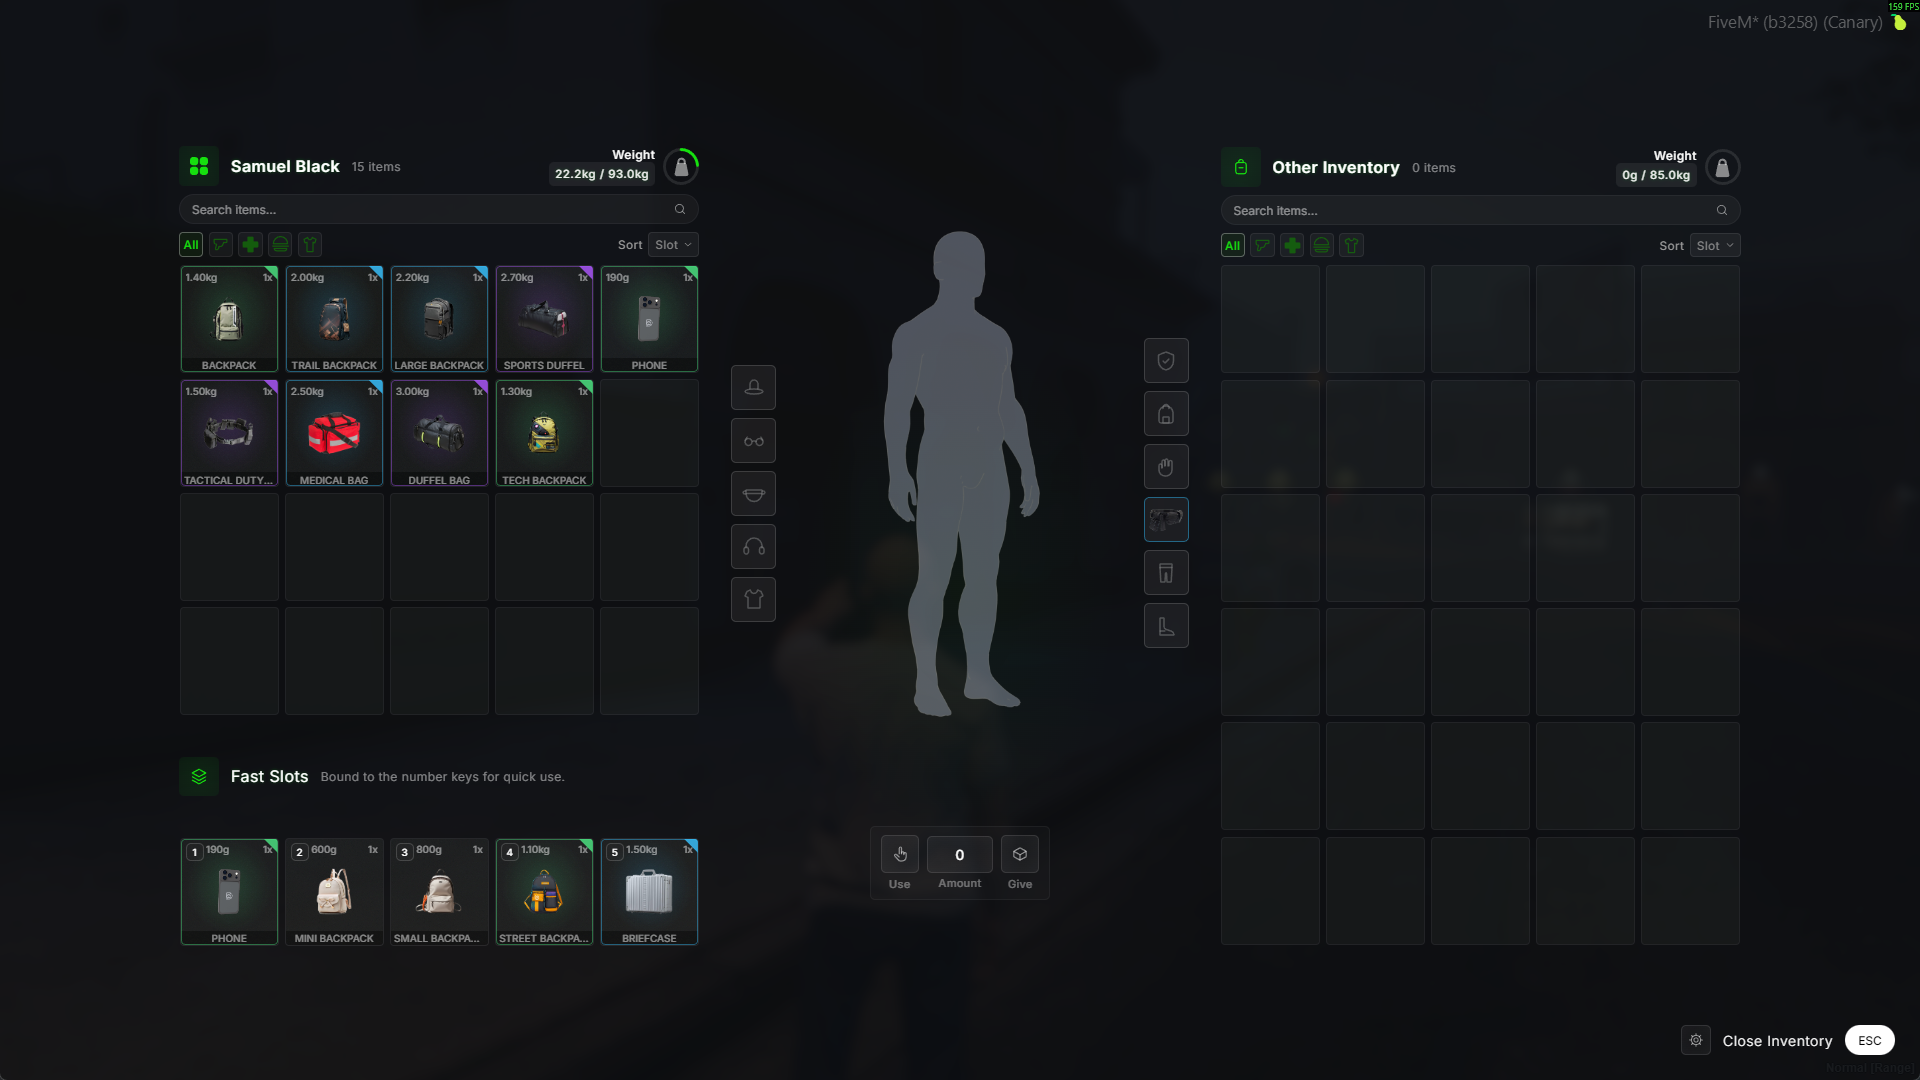
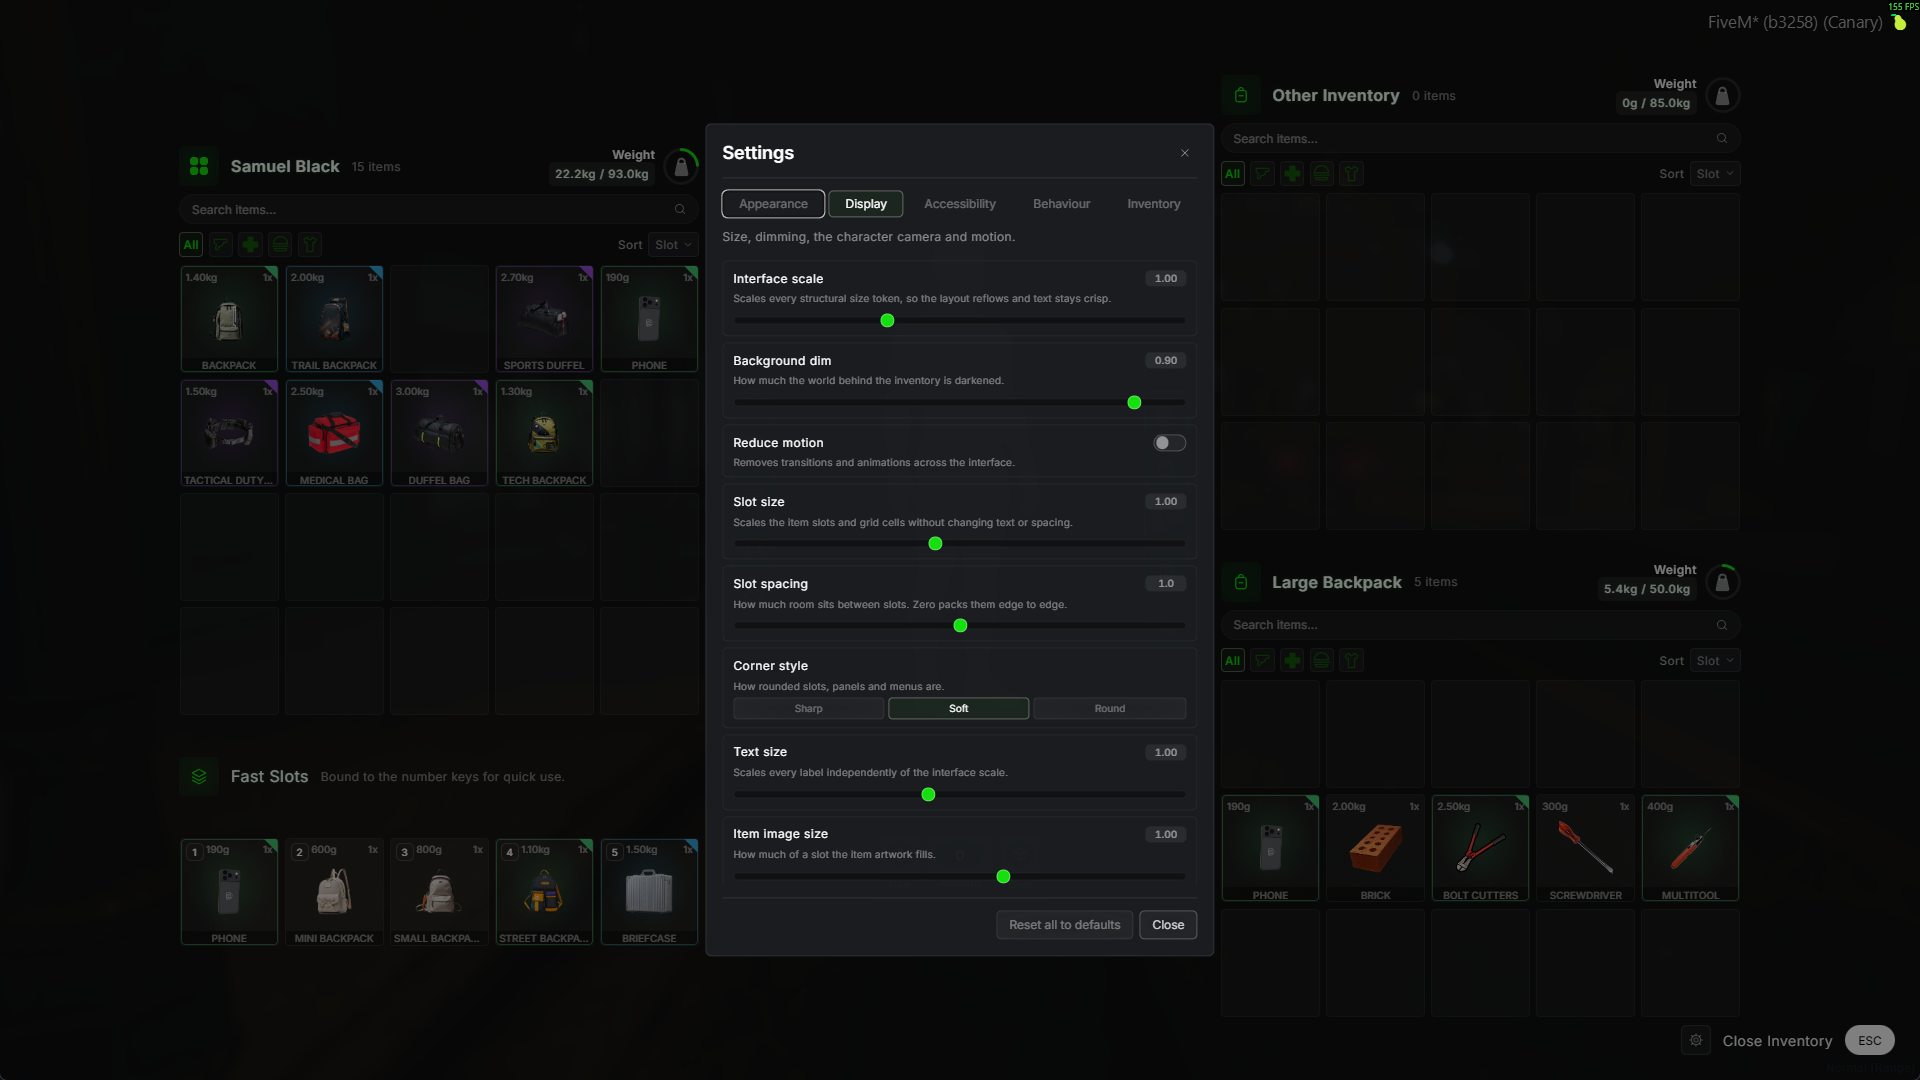
docs: add grid and settings screenshots

diff --git a/README.md b/README.md
@@ -32,6 +32,8 @@ Everything from upstream ox_inventory still works: items, weapons, shops, stashe
 
 <img alt="A worn backpack open as its own panel" src=".github/preview/inventory-backpack.png" width="100%" />
 
+<img alt="The spatial grid layout, where items occupy a footprint" src=".github/preview/inventory-grid.png" width="100%" />
+
 <img alt="The in-game settings panel" src=".github/preview/inventory-settings.png" width="100%" />
 
 ## What this fork adds
